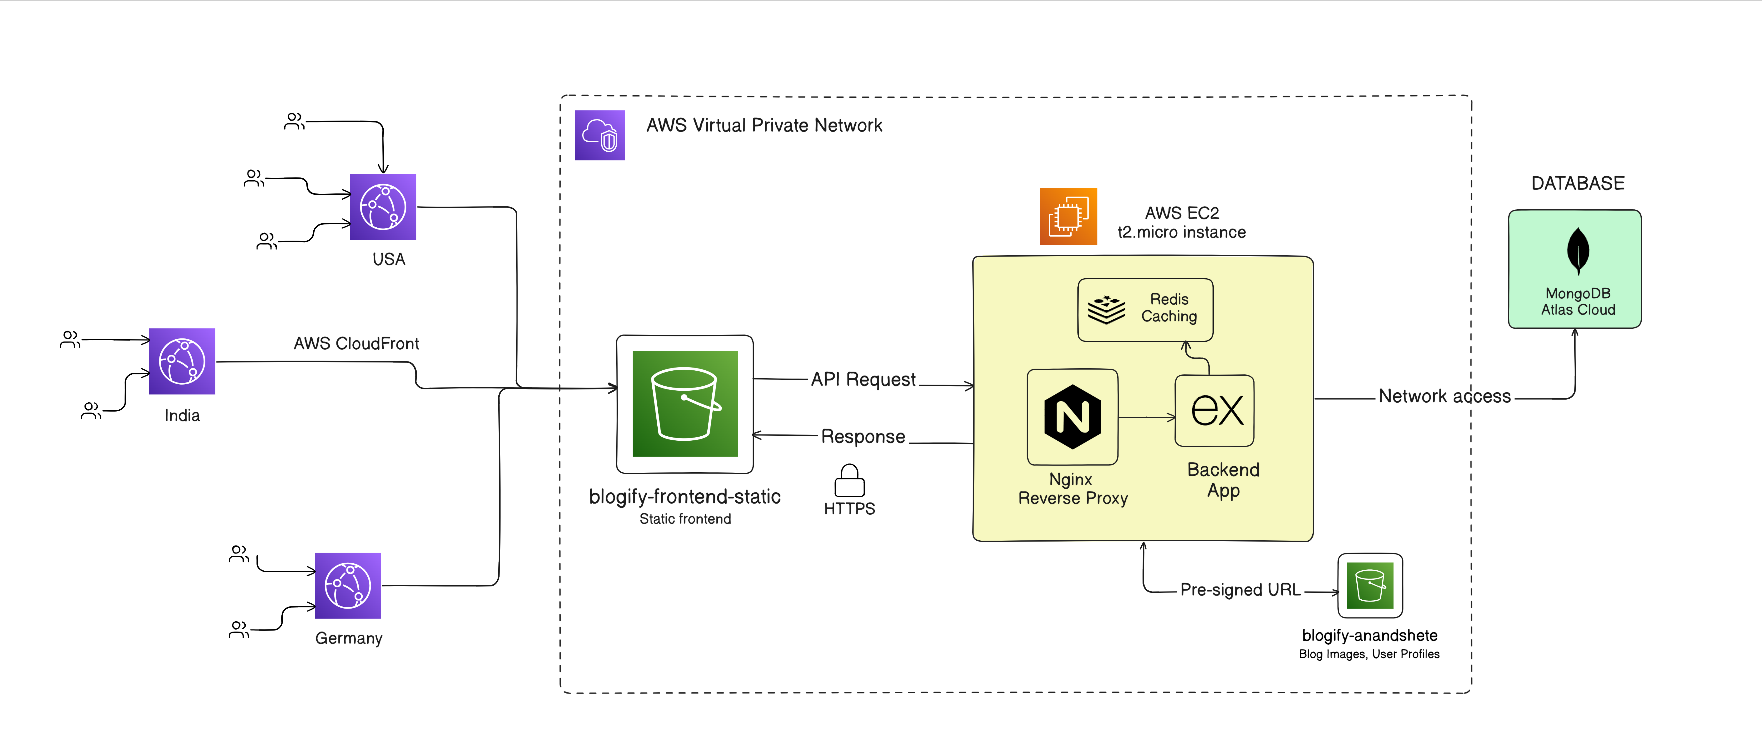
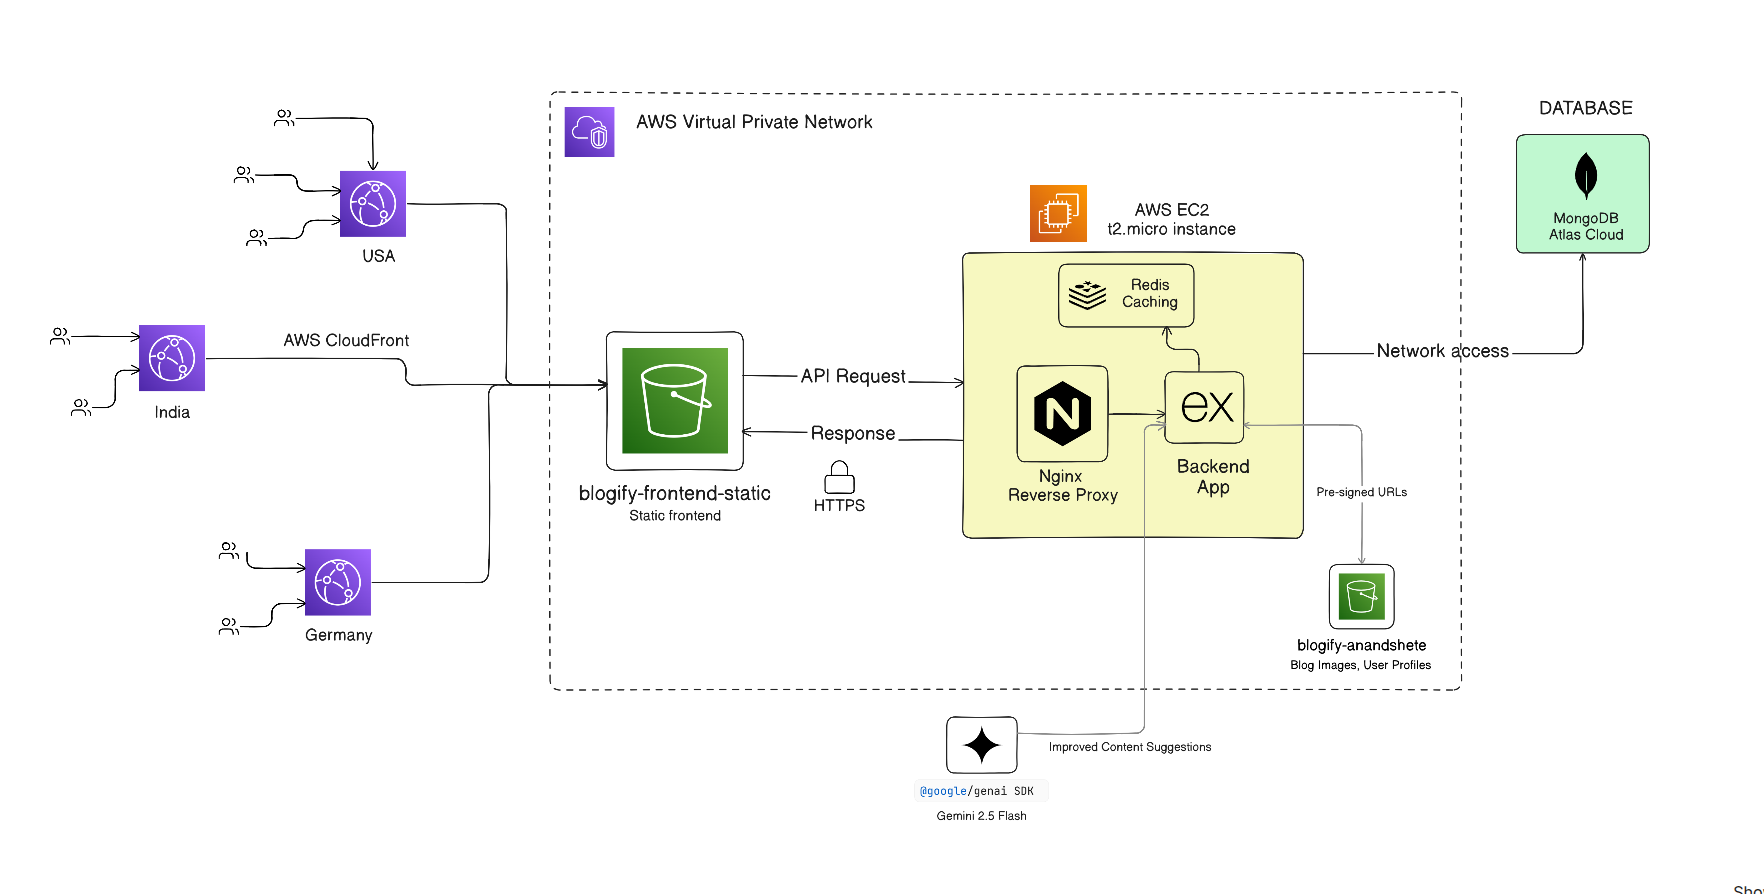
chore: update architecture and README.md

diff --git a/README.md b/README.md
@@ -1,11 +1,20 @@
 # Blogify
 
-Blogify is a modern, interactive blogging platform designed to allow users to create, share, and engage with blog posts. With a sleek UI, secure authentication, and AI-powered features, Blogify offers a seamless experience for both readers and writers.
+Blogify is a full-stack blogging platform that enables users to create, share, and discover content with a focus on performance, security, and scalable architecture.
 
 ## System Design
 
-Blogify's **current production architecture** uses Amazon Web Services for a full fledged deployment.<br><br>
+Blogify's **current production architecture** uses AWS with a focus on low-latency content delivery and efficient resource utilization.<br><br>
 ![Blogify archirecture](./aws.png)
+
+## High-Level Flow
+
+- Static assets are served via **AWS CloudFront** (CDN) backed by an **S3 bucket**
+- API requests are routed to a backend hosted on **EC2**, behind an **Nginx reverse proxy**
+- **Redis** is used to cache frequently accessed blog data on landing page.
+- **MongoDB Atlas** handles persistent storage
+- Media uploads are handled via **S3 pre-signed URLs**, avoiding backend load
+- **Gemini API** is integrated for AI-assisted content enhancement
 
 ## Live Demo
 
@@ -14,18 +23,20 @@ If you directly want to view this project:
 
 ## Features
 
-- **Fast Content Delivery**: Optimized blog loading using Redis caching and AWS Cloudfront to reduce response times.
-- **AI-Assisted Blog Writing**: Create blogs with a rich text editor enhanced by Gemini Flash for AI-powered writing suggestions.
-- **Multiple Authentication**: Supports both Email-based authentication and Google OAuth 2.0 for login.
-- **Scalable Image Storage**: Blog images stored on AWS S3 using presigned upload URLs for efficient file handling.
-- **API Protection**: Implemented Rate limiting to prevent abuse, prevent excessive requests, and improve backend stability.
+- **Optimized Content Delivery** using Redis caching and CloudFront CDN
+- **AI-Assisted Writing** with Gemini API integration
+- **Authentication** via Email/Password and Google OAuth
+- **Secure Media Uploads** using S3 pre-signed URLs
+- **API Protection** with rate limiting and input sanitization
+- **Pagination** for scalable blog discovery
 
 ## Tech Stack
 
 - **Frontend**: React, Redux, Tailwind, ShadCN
-- **Backend**: Express, JWT, Bcrypt, CORS, Sanitize-HTML, AWS SDK
+- **Backend**: Express, JWT, CORS, Sanitize-HTML, AWS SDK
 - **Database**: MongoDB Atlas
 - **Caching**: Redis
+- **Cloud & Infra**: AWS S3, CloudFront, EC2, Nginx
 - **AI Integration**: `@google/genai`
 
 ## Local Development
@@ -45,7 +56,7 @@ If you directly want to view this project:
 1. Clone the repository
 
 ```bash
-git clone https://github.com/anand-shete/blogify.git
+git clone https://github.com/anand-shete/blogify
 cd blogify
 ```
 